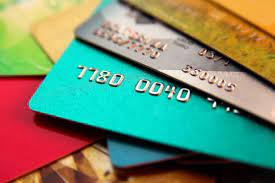
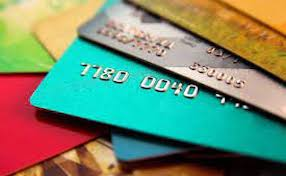
fix image scaling

diff --git a/index.html b/index.html
@@ -37,22 +37,22 @@
 						<h2>Recent Projects</h2>
 						<div class="row">
 							<article class="col-6 col-12-xsmall work-item">
-								<a href="https://github.com/squisty/CC_DefaultClassifier" target="_blank" class="image fit thumb"><img src="images/thumbs/cc_stock.jpg" alt="Credit card stock image" width="410" height="210"/></a>
+								<a href="https://github.com/squisty/CC_DefaultClassifier" target="_blank" class="image fit thumb"><img src="images/thumbs/cc_stock.jpg" alt="Credit card stock image" width="15%" height="20%"/></a>
 								<h3>Predicting Credit Card Defaults Using Supervised Learning</h3>
 								<p>A procedural notebook documenting the process for creating a supervised classifier. The highest performing model in terms of accuracy was a SVM, which achieved a .828 test accuracy.</p>
 							</article>
 							<article class="col-6 col-12-xsmall work-item">
-								<a href="https://github.com/squisty/bayesian_CO2" target="_blank" class="image fit thumb"><img src="images/thumbs/bayes.jpg" alt="" width="410" height="210"/></a>
+								<a href="https://github.com/squisty/bayesian_CO2" target="_blank" class="image fit thumb"><img src="images/thumbs/bayes.jpg" alt="" width="15%" height="20%"/></a>
 								<h3>Bayesian Regression Using Atmospheric CO2 Data</h3>
 								<p>A look into just how powerful Bayes' rule can be. Given a function to model the concentration of CO2 in the atmosphere, relevant parameters are sampled using Markov chains and RSTAN. A comprehensive before and after study is completed with the final result capturing the CO2 levels quite accurately.</p>
 							</article>
 							<article class="col-6 col-12-xsmall work-item">
-								<a href="https://github.com/squisty/torch_imageClassifier" target="_blank" class="image fit thumb"><img src="images/thumbs/cat.jpg" alt="Cat" width="410" height="210"/></a>
+								<a href="https://github.com/squisty/torch_imageClassifier" target="_blank" class="image fit thumb"><img src="images/thumbs/cat.jpg" alt="Cat" width="15%" height="20%"/></a>
 								<h3>Image Classification Using Unsupervised Learning</h3>
 								<p>This project dives into convolutional neural networks and how they can be used to classify images, specifically images of various cat breeds. There is a comparison between a CNN from scratch, the DenseNet pre-trained model and a DenseNet model with additional tuned layers.</p>
 							</article>
 							<article class="col-6 col-12-xsmall work-item">
-								<a href="https://github.com/squisty/simple-clustering" target="_blank" class="image fit thumb"><img src="images/thumbs/nlp.jpg" alt="" width="410" height="210"/></a>
+								<a href="https://github.com/squisty/simple-clustering" target="_blank" class="image fit thumb"><img src="images/thumbs/nlp.jpg" alt="" width="15%" height="20%"/></a>
 								<h3>Exploring Word Embeddings Using Natural Language Processing</h3>
 								<p>A notebook which looks at multiple aspects of natural language processing. Generating word vectors, comparing word vectors by library, exploring bias in vectors and visualizations of word vectors using dimensionality reduction are all topics explored.</p>
 							</article>
